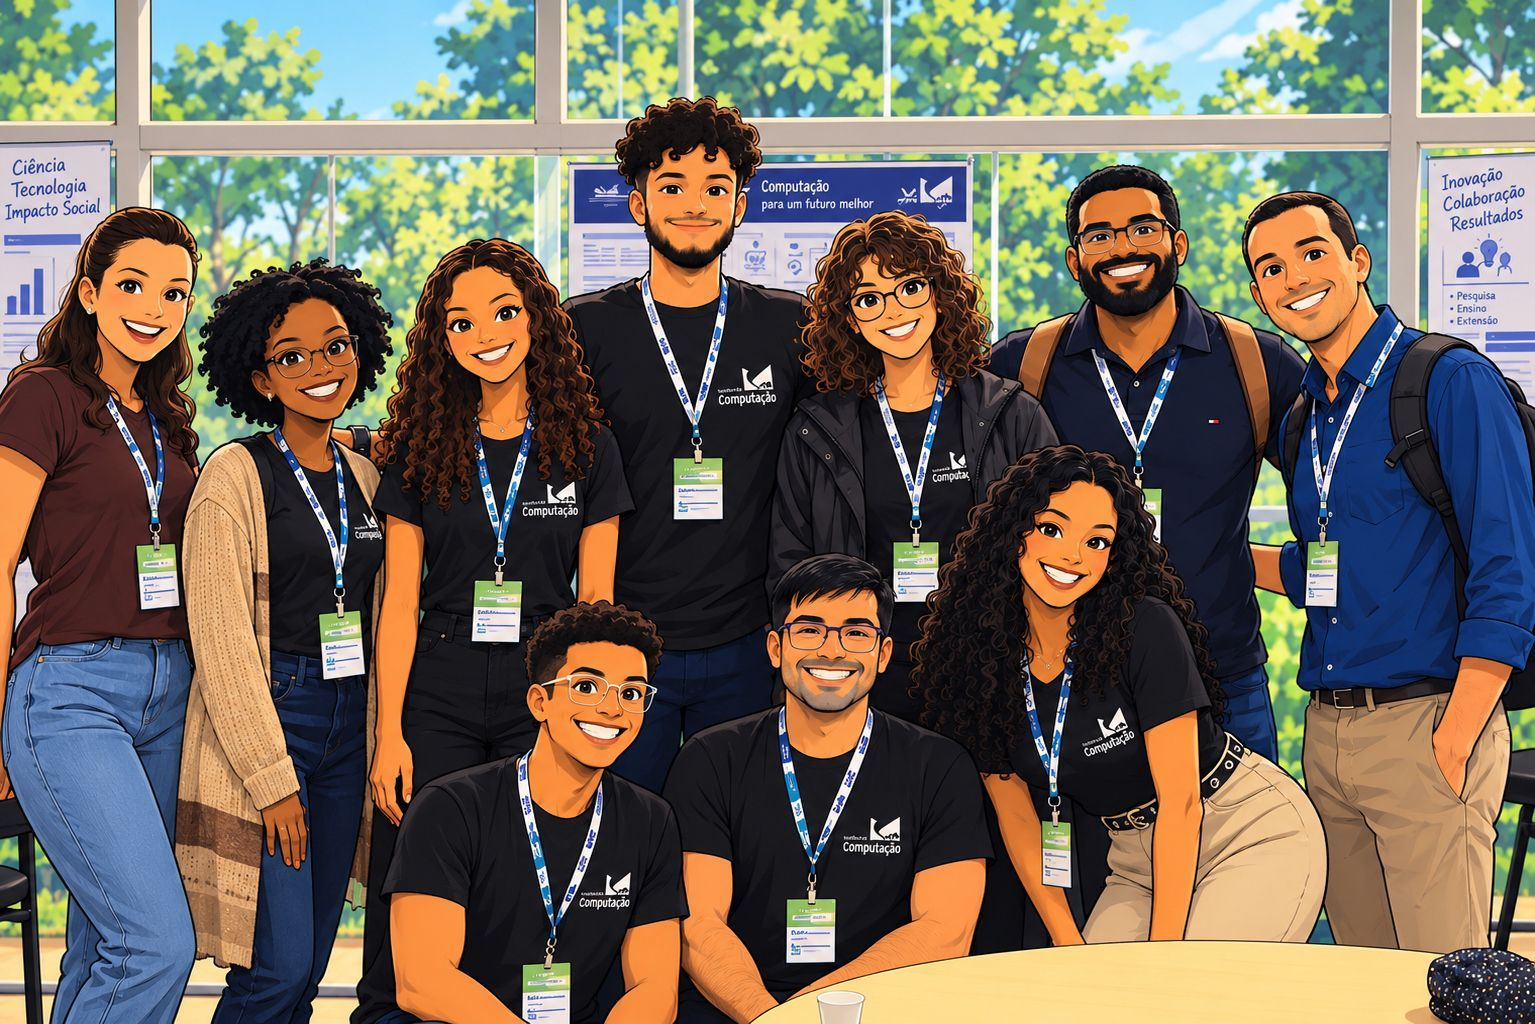
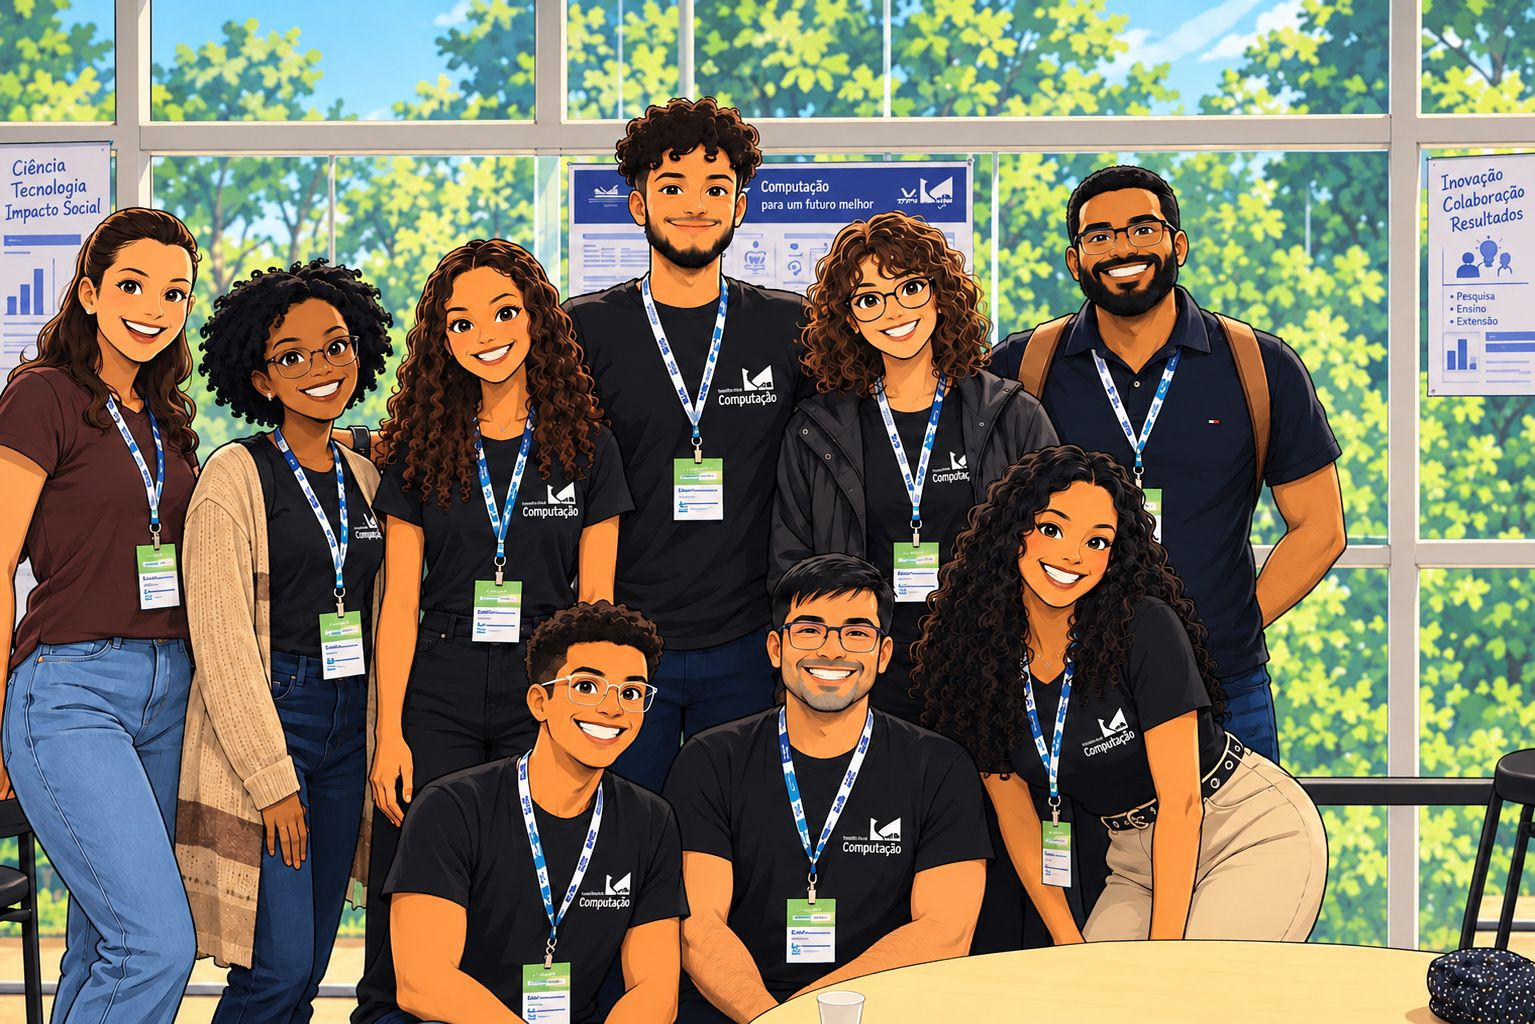
Align menu anchors and update group intro
Replace the global 90px scroll padding, which left part of the
previous section visible, with one scroll margin shared by the menu
anchors (Publications, Papers, Projects and Team) so each section
heading lands near the top of the window.

Mention Data Management and the scientific domains the group works
with in the intro text, and update the group photo.

diff --git a/web/app/page.js b/web/app/page.js
@@ -40,9 +40,10 @@ export default async function Home() {
               of Computing at Universidade Federal Fluminense (UFF).
             </p>
             <p>
-              Our group is dedicated to advancing research in Data Science, Machine Learning, and
-              their applications to social good and healthcare. Here you will find information about
-              our team, ongoing projects, and scientific publications.
+              Our group is dedicated to advancing research in Data Science, Data Management, Machine
+              Learning, and their applications in multiple domains of Science (Bioinformatics,
+              Astronomy, etc). Here you will find information about our team, ongoing projects, and
+              scientific publications.
             </p>
             <div className="intro-actions">
               <a className="primary-button" href="#projetos">

diff --git a/web/app/globals.css b/web/app/globals.css
@@ -12,7 +12,13 @@
 }
 html {
   scroll-behavior: smooth;
-  scroll-padding-top: 90px;
+}
+/* Menu anchors land with the section heading near the top of the window. */
+#novidades,
+#artigos,
+#projetos,
+#pessoas {
+  scroll-margin-top: -10px;
 }
 body {
   margin: 0;
@@ -330,9 +336,6 @@ footer {
   }
 }
 @media (max-width: 700px) {
-  html {
-    scroll-padding-top: 20px;
-  }
   .site-header {
     padding: 10px 22px;
     gap: 16px;
@@ -1357,7 +1360,6 @@ footer {
 .people-section {
   padding: 64px 0;
   border-top: 1px solid var(--line, #d7e0e9);
-  scroll-margin-top: 24px;
 }
 .people-lead {
   display: flex;
@@ -1507,7 +1509,6 @@ footer {
 .papers-section {
   padding: 48px 40px 56px;
   border-top: 1px solid var(--line);
-  scroll-margin-top: 24px;
 }
 .papers-year {
   font: inherit;
